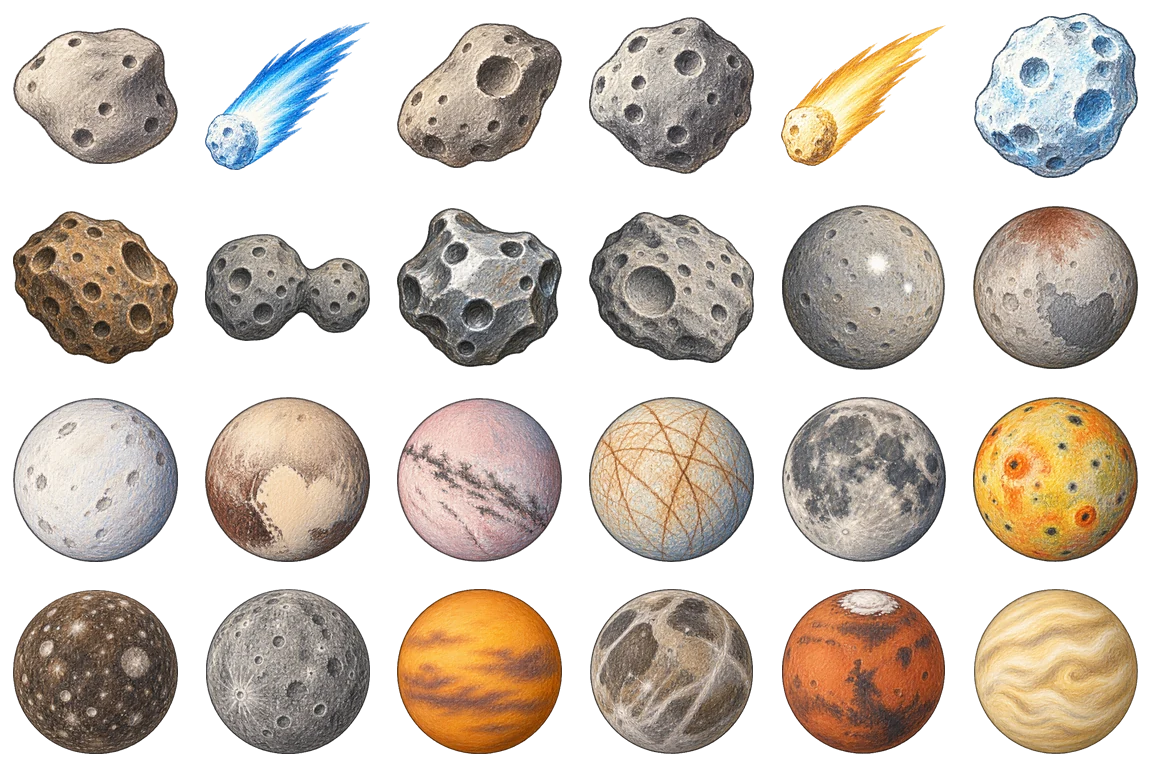
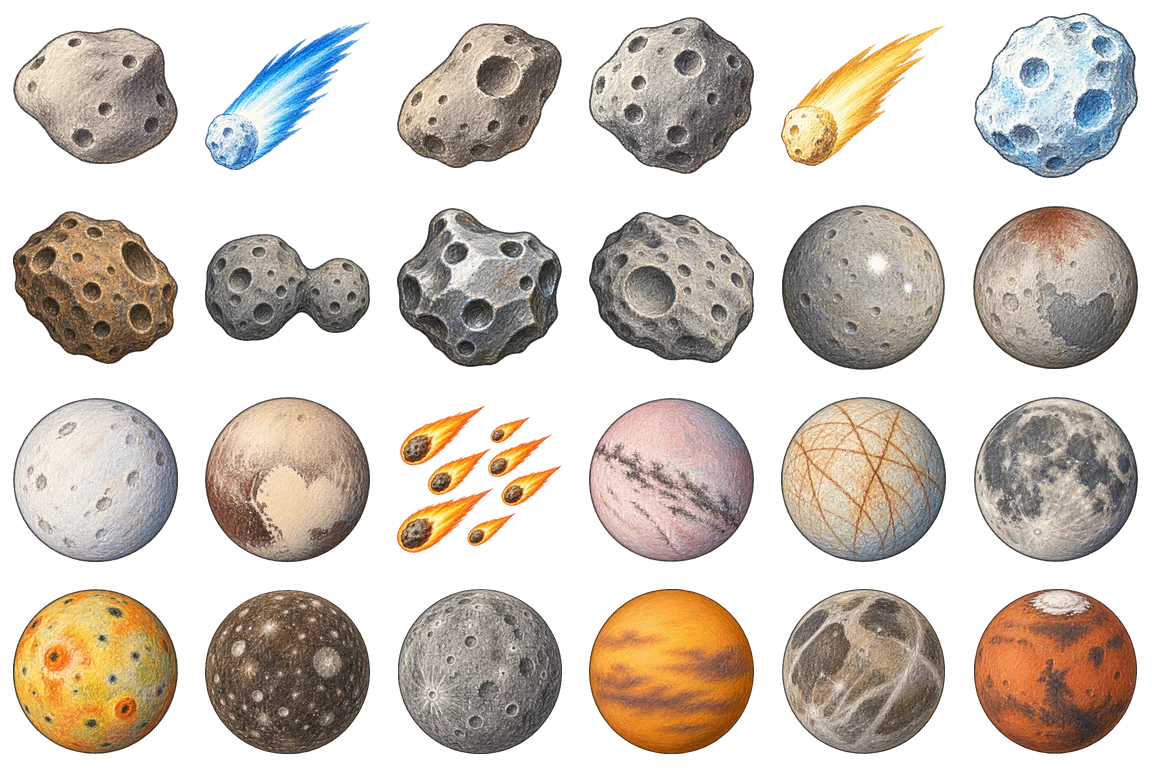
Corrige le clignotement de Glouton et remplit le système solaire de roches
Clignotement : les textures du sol (512 px) et les images des objets
étaient réduites 10 à 30 fois d'un coup. Chaque pixel de l'écran ne
lisait qu'un point de l'image, et ce point changeait à chaque image
pendant que le zoom bouge. L'atlas garde maintenant chaque image avec
ses moitiés successives et le dessin prend la version la plus proche
de la taille à l'écran ; le sol se fond doucement dans sa couleur
moyenne quand il devient trop fin.

Système solaire : plus d'étoile dès la sortie de la Terre. Six roches
prennent le relais des astéroïdes (essaim de météores, planétésimal,
roche interstellaire, planète vagabonde, nuage de débris, essaim de
comètes), avec leur planche et leurs noms EN/FR. Les outils de planches
savent désormais quels objets contient une image générée après coup.

Maison : miettes un peu moins espacées, pour que la Fringale en sorte.

Changed region(s): [[0.0, 0.5, 1.0, 1.0]]

diff --git a/app/src/main/java/com/Atom2Universe/app/games/glutton/GluttonAtlas.kt b/app/src/main/java/com/Atom2Universe/app/games/glutton/GluttonAtlas.kt
@@ -10,16 +10,20 @@ import android.graphics.RectF
 import com.Atom2Universe.app.games.glutton.GluttonCatalog.Theme
 import com.Atom2Universe.app.games.glutton.GluttonWorld.Ground
 import java.io.IOException
+import kotlin.math.abs
 import java.util.concurrent.Executors
 
 /**
  * Optional WebP pages (assets/glutton/<theme>_<page>.webp, 6 × 4 square cells, see tools/glutton) and ground
  * textures (assets/glutton/ground_<name>.webp), decoded off the frame thread. The current era's pages and
  * those of the eras on either side stay decoded; a missing page simply leaves the code-drawn stand-ins.
+ *
+ * Every image is kept with its halvings (512, 256, … pixels), and drawing picks the one closest above the size on
+ * screen: shrunk twenty times in one go, a texture shimmers from frame to frame as the camera zooms out.
  */
 internal class GluttonAtlas(private val context: Context) {
-    @Volatile private var pages: Array<Array<Bitmap?>> = Array(Theme.entries.size) { arrayOfNulls(GluttonCatalog.pageCount(Theme.entries[it])) }
-    @Volatile private var grounds: Array<Bitmap?> = arrayOfNulls(Ground.entries.size)
+    @Volatile private var pages: Array<Array<List<Bitmap>?>> = Array(Theme.entries.size) { arrayOfNulls(GluttonCatalog.pageCount(Theme.entries[it])) }
+    @Volatile private var grounds: Array<List<Bitmap>?> = arrayOfNulls(Ground.entries.size)
     private val source = Rect()
     private val executor = Executors.newSingleThreadExecutor { Thread(it, "glutton-atlas").apply { isDaemon = true } }
     private var wanted: Theme? = null
@@ -31,8 +35,8 @@ internal class GluttonAtlas(private val context: Context) {
         if (!groundsAsked) {
             groundsAsked = true
             executor.execute {
-                val loaded = arrayOfNulls<Bitmap>(Ground.entries.size)
-                for (g in Ground.entries) loaded[g.ordinal] = decode("glutton/ground_${g.name.lowercase()}.webp", Bitmap.Config.RGB_565)
+                val loaded = arrayOfNulls<List<Bitmap>>(Ground.entries.size)
+                for (g in Ground.entries) loaded[g.ordinal] = decode("glutton/ground_${g.name.lowercase()}.webp", Bitmap.Config.RGB_565)?.let { halvings(it, 16) }
                 if (!released) grounds = loaded
             }
         }
@@ -44,6 +48,7 @@ internal class GluttonAtlas(private val context: Context) {
             for (t in Theme.entries) for (page in next[t.ordinal].indices) {
                 if (t !in keep) next[t.ordinal][page] = null
                 else if (next[t.ordinal][page] == null) next[t.ordinal][page] = decode("glutton/${t.name.lowercase()}_$page.webp", Bitmap.Config.ARGB_8888)
+                    ?.let { halvings(it, GluttonCatalog.COLUMNS * 24) }
             }
             if (!released) pages = next
         }
@@ -52,14 +57,30 @@ internal class GluttonAtlas(private val context: Context) {
     private fun decode(path: String, config: Bitmap.Config): Bitmap? = try {
         context.assets.open(path).use {
             BitmapFactory.decodeStream(it, null, BitmapFactory.Options().apply { inScaled = false; inPreferredConfig = config })
-                ?.also { bitmap -> bitmap.setHasMipMap(true) }
         }
     } catch (_: IOException) { null }
 
-    fun ground(ground: Ground): Bitmap? = grounds[ground.ordinal]
+    /** [image] and its successive halvings, each averaged from the one before, down to [smallest] pixels wide. */
+    private fun halvings(image: Bitmap, smallest: Int): List<Bitmap> {
+        val list = arrayListOf(image)
+        while (list.last().width / 2 >= smallest) list.last().let { list += Bitmap.createScaledBitmap(it, it.width / 2, it.height / 2, true) }
+        return list
+    }
+
+    /** The smallest version still at least [width] pixels wide (the largest when even that is too small). */
+    private fun level(list: List<Bitmap>, width: Float): Int {
+        var i = 0
+        while (i + 1 < list.size && list[i + 1].width >= width) i++
+        return i
+    }
+
+    /** Ground texture versions, largest first (null while decoding). */
+    fun ground(ground: Ground): List<Bitmap>? = grounds[ground.ordinal]
+    fun groundLevel(list: List<Bitmap>, tile: Float) = level(list, tile)
 
     fun draw(canvas: Canvas, theme: Theme, page: Int, cell: Int, target: RectF, paint: Paint): Boolean {
-        val image = pages[theme.ordinal].getOrNull(page) ?: return false
+        val versions = pages[theme.ordinal].getOrNull(page) ?: return false
+        val image = versions[level(versions, abs(target.width()) * GluttonCatalog.COLUMNS)]
         val size = image.width / GluttonCatalog.COLUMNS
         val column = cell % GluttonCatalog.COLUMNS; val row = cell / GluttonCatalog.COLUMNS
         if ((row + 1) * size > image.height) return false

diff --git a/app/src/main/java/com/Atom2Universe/app/games/glutton/GluttonView.kt b/app/src/main/java/com/Atom2Universe/app/games/glutton/GluttonView.kt
@@ -43,7 +43,9 @@ class GluttonView(context: Context) : View(context) {
     private val arc = RectF()
     private val oval = RectF()
     private val matrix = Matrix()
-    private val shaders = arrayOfNulls<BitmapShader>(Ground.entries.size)
+    /** One shader per ground texture and per version of it (see [GluttonAtlas]). */
+    private val shaders = Array(Ground.entries.size) { arrayOfNulls<BitmapShader>(8) }
+    private val flat = Paint()
     private val averages = IntArray(Ground.entries.size)
     private val random = Random(71)
     private class Particle {
@@ -512,6 +514,12 @@ class GluttonView(context: Context) : View(context) {
     /** Ground with its texture: world-anchored on land (so floors shrink as you grow), drifting behind you in space. */
     private fun groundRect(c: Canvas, ring: Ring, ground: Ground, x0: Double, y0: Double, x1: Double, y1: Double, round: Boolean) {
         val paint = groundPaint(ring, ground)
+        // The texture fades into its average colour as it gets too fine to see, rather than switching all at once.
+        if (paint.shader != null && paint.alpha < 255) shape(c, x0, y0, x1, y1, round, flat)
+        shape(c, x0, y0, x1, y1, round, paint)
+    }
+
+    private fun shape(c: Canvas, x0: Double, y0: Double, x1: Double, y1: Double, round: Boolean, paint: Paint) {
         if (round) {
             val l = sx(x0); val t = sy(y0); val r = sx(x1); val b = sy(y1)
             if (r - l < 4e5f) { oval.set(l, t, r, b); c.drawOval(oval, paint); return }
@@ -520,20 +528,24 @@ class GluttonView(context: Context) : View(context) {
     }
 
     private fun groundPaint(ring: Ring, ground: Ground): Paint {
-        val bitmap = atlas.ground(ground)
+        val versions = atlas.ground(ground)
         val space = ground == Ground.SPACE
         texture.colorFilter = if (space) TINTS[ring.theme.ordinal] else null
-        if (bitmap == null) { texture.shader = null; texture.color = FALLBACK[ground.ordinal]; return texture }
-        if (averages[ground.ordinal] == 0) averages[ground.ordinal] = Bitmap.createScaledBitmap(bitmap, 1, 1, true).getPixel(0, 0) or 0xFF000000.toInt()
+        if (versions == null) { texture.shader = null; texture.color = FALLBACK[ground.ordinal]; return texture }
+        if (averages[ground.ordinal] == 0) averages[ground.ordinal] = Bitmap.createScaledBitmap(versions.last(), 1, 1, true).getPixel(0, 0) or 0xFF000000.toInt()
         val tile = if (space) 360.0 * density else tileMetres(ring) * zoom
-        if (tile < 14) { texture.shader = null; texture.color = averages[ground.ordinal]; return texture }
-        val shader = shaders[ground.ordinal] ?: BitmapShader(bitmap, Shader.TileMode.REPEAT, Shader.TileMode.MIRROR).also { shaders[ground.ordinal] = it }
+        if (tile < FADE_FROM) { texture.shader = null; texture.color = averages[ground.ordinal]; return texture }
+        flat.color = averages[ground.ordinal]; flat.colorFilter = texture.colorFilter
+        val level = atlas.groundLevel(versions, tile.toFloat())
+        val bitmap = versions[level]
+        val shader = shaders[ground.ordinal][level] ?: BitmapShader(bitmap, Shader.TileMode.REPEAT, Shader.TileMode.MIRROR).also { shaders[ground.ordinal][level] = it }
         val ox = if (space) drift else -cameraX * zoom + width / 2.0
         val oy = if (space) driftY else -cameraY * zoom + centerY
         matrix.setScale((tile / bitmap.width).toFloat(), (tile / bitmap.height).toFloat())
         matrix.postTranslate(((ox % tile + tile) % tile).toFloat(), ((oy % tile + tile) % tile).toFloat())
         shader.setLocalMatrix(matrix)
         texture.shader = shader; texture.color = Color.WHITE
+        texture.alpha = (255 * ((tile - FADE_FROM) / (FADE_TO - FADE_FROM))).toInt().coerceIn(0, 255)
         return texture
     }
 
@@ -756,6 +768,9 @@ class GluttonView(context: Context) : View(context) {
         /** The screen's short side shows this many gobbler radii: you take a thirteenth of it. */
         const val VIEW_SPAN = 26.0
         const val MAP_DOTS = 160
+        /** Ground textures fade into their average colour between these tile sizes, in pixels. */
+        const val FADE_FROM = 12.0
+        const val FADE_TO = 40.0
         /** Big Bang timeline, in seconds after the last bite: implosion, then the blast and the new sky. */
         const val BANG_AT = .75f
         const val FIREBALL = 1.1f

diff --git a/app/src/main/java/com/Atom2Universe/app/games/glutton/GluttonLayout.kt b/app/src/main/java/com/Atom2Universe/app/games/glutton/GluttonLayout.kt
@@ -75,14 +75,15 @@ internal class GluttonLayout(private val world: GluttonWorld, private val ring: 
         val (loose, fixed) = ring.placements.partition { it.prop.role in LOOSE }
         ring.placements.clear()
         for (p in fixed) { ring.placements += p; kept.add(p, p.x, p.y, p.radius) }
+        // The house is small and its crumbs are all there is to grow on: a little apart, never left out.
+        val spacing = if (ring.index == 0) HOUSE_SPACING else SPACING
         for (p in loose.sortedByDescending { it.radius }) {
-            // The house is small and its crumbs are all there is to grow on: spaced out, never left out.
             if (ring.index > 0 && chance(THIN)) continue
-            val reach = p.radius * (1 + SPACING)
+            val reach = p.radius * (1 + spacing)
             var free = true
             kept.query(p.x - reach, p.y - reach, p.x + reach, p.y + reach) { o ->
                 if (free) {
-                    val need = p.radius + o.radius + min(p.radius, o.radius) * SPACING
+                    val need = p.radius + o.radius + min(p.radius, o.radius) * spacing
                     if ((p.x - o.x).pow(2) + (p.y - o.y).pow(2) < need * need) free = false
                 }
             }
@@ -960,8 +961,9 @@ internal class GluttonLayout(private val world: GluttonWorld, private val ring: 
             val prop = GluttonCatalog.byId.getValue(id)
             repeat(10) { val s = spaceSpot(); if (put(prop, s[0], s[1], prop.radius, .5) != null) return@repeat }
         }
-        // Asteroids and stray dwarf stars of every size; the named moons and dwarf planets exist once each.
-        spaceScatter(1.25) { (it.theme == Theme.PLANETS || it.theme == Theme.STARS) && (it.shape != Shape.PLANET || it.spread > 1.0) }
+        // Asteroids, then meteors and rocks adrift of every size: no star before the stars ring. The named moons and
+        // dwarf planets exist once each.
+        spaceScatter(1.25) { it.theme == Theme.PLANETS && (it.shape != Shape.PLANET || it.spread > 1.0) }
         repeat(8) {
             val s = spaceSpot(); val a = random.nextDouble() * 2 * PI; val l = max(abs(s[0]), abs(s[1])) * .6
             val lane = Lane(doubleArrayOf(s[0] - cos(a) * l, s[1] - sin(a) * l, s[0] + cos(a) * l, s[1] + sin(a) * l), false)
@@ -1034,6 +1036,7 @@ internal class GluttonLayout(private val world: GluttonWorld, private val ring: 
         private val LOOSE = setOf(Role.FOOD, Role.CLUTTER, Role.YARD, Role.STREET, Role.BODY)
         private const val THIN = .3
         private const val SPACING = 1.5
+        private const val HOUSE_SPACING = .7
         private val FOOD_ROLES = listOf(Role.FOOD, Role.CLUTTER)
         /** Placed by hand (the Sun, the Moon) or used as a cover (your house is also a house among others). */
         private val SPECIAL = setOf("earth", "milky_way", "sun", "moon", "hourglass")

diff --git a/app/src/main/java/com/Atom2Universe/app/games/glutton/GluttonCatalog.kt b/app/src/main/java/com/Atom2Universe/app/games/glutton/GluttonCatalog.kt
@@ -383,6 +383,8 @@ object GluttonCatalog {
             p("charon", 1212e3, PLANET, BODY)
             p("eris", 2326e3, PLANET, BODY)
             p("pluto", 2377e3, PLANET, BODY)
+            // Rocks adrift (meteors, planetesimals, rogue worlds): what there is to eat past the asteroids, before any star.
+            p("meteor_swarm", 2.5e6, BLOB, BODY, spread = 2.5)
             p("triton", 2707e3, PLANET, BODY)
             p("europa", 3122e3, PLANET, BODY)
             p("moon", 3474e3, PLANET, BODY, ORBIT, 1.0)
@@ -392,12 +394,17 @@ object GluttonCatalog {
             p("titan", 5150e3, PLANET, BODY)
             p("ganymede", 5268e3, PLANET, BODY)
             p("mars", 6779e3, PLANET, BODY, ORBIT, 1.0)
+            p("planetesimal", 8e6, BLOB, BODY, spread = 2.5)
             p("venus", 12104e3, PLANET, BODY, ORBIT, 1.0)
             p("earth", 12742e3, PLANET, BODY)
+            p("interstellar_rock", 2e7, BLOB, BODY, spread = 2.5)
             p("neptune", 49244e3, PLANET, BODY, ORBIT, 1.0)
             p("uranus", 50724e3, PLANET, BODY, ORBIT, 1.0)
+            p("rogue_planet", 6e7, PLANET, BODY, spread = 2.0)
             p("jupiter", 139820e3, PLANET, BODY, ORBIT, 1.0)
+            p("debris_cloud", 1.5e8, CLUSTER, BODY, spread = 2.0)
             p("saturn", 200e6, PLANET, BODY, ORBIT, 1.0)
+            p("comet_swarm", 3e8, CLUSTER, BODY, spread = 2.0)
             p("sun", 1392e6, STAR, LANDMARK)
         }
         theme(Theme.STARS) {

diff --git a/tools/glutton/prompts.py b/tools/glutton/prompts.py
@@ -362,6 +362,12 @@ DESCRIPTIONS = {
     "jupiter": "the planet Jupiter, cream and orange bands with the great red spot",
     "saturn": "the planet Saturn, golden with wide tilted rings",
     "sun": "the Sun, a blazing orange and yellow ball with flares and spots",
+    "meteor_swarm": "swarm of small glowing meteors flying together in one direction, little rocks with short fiery orange trails",
+    "planetesimal": "lumpy grey brown planetesimal, a big rubble pile of rocks stuck together",
+    "interstellar_rock": "long thin cigar-shaped reddish interstellar rock tumbling through space, like the visitor Oumuamua",
+    "rogue_planet": "dark rogue planet with a cold blue icy cracked surface, wandering alone without a star",
+    "debris_cloud": "loose cloud of tumbling grey and brown rock debris, many chunks of different sizes",
+    "comet_swarm": "round swarm of many small icy comets with short blue tails, like a cloud of snowballs",
     # Stars and nebulae
     "white_dwarf": "tiny bright white star with a pale blue glow",
     "brown_dwarf": "dim brown dwarf, a dark reddish brown banded ball",
@@ -472,13 +478,26 @@ def themes():
     return result
 
 
+# Images generated after their theme was laid out, holding things since slotted in among the others by size:
+# they keep their own subjects, and the rest of the theme fills the other images in catalogue order.
+ADDED = {
+    "planets_05": ["meteor_swarm", "planetesimal", "interstellar_rock", "rogue_planet", "debris_cloud", "comet_swarm"],
+}
+
+
 def images():
     """Returns {image_name: [ids]} with six ids per image."""
     result = {}
     for theme, ids in themes().items():
-        for batch in range(-(-len(ids) // PER_IMAGE)):
-            result[f"{theme}_{batch:02d}"] = ids[batch * PER_IMAGE:(batch + 1) * PER_IMAGE]
-    return result
+        added = {name: group for name, group in ADDED.items() if name.rsplit("_", 1)[0] == theme}
+        taken = {i for group in added.values() for i in group}
+        rest = [i for i in ids if i not in taken]
+        count = -(-len(rest) // PER_IMAGE) + len(added)
+        free = [f"{theme}_{batch:02d}" for batch in range(count) if f"{theme}_{batch:02d}" not in added]
+        for k, name in enumerate(free):
+            result[name] = rest[k * PER_IMAGE:(k + 1) * PER_IMAGE]
+        result.update(added)
+    return dict(sorted(result.items()))
 
 
 def prompt(name, ids):

diff --git a/tools/glutton/pack_art.py b/tools/glutton/pack_art.py
@@ -19,7 +19,7 @@ import sys
 from PIL import Image, ImageFilter
 
 sys.path.insert(0, str(Path(__file__).resolve().parent))
-from prompts import PER_IMAGE, themes  # noqa: E402
+from prompts import images, themes  # noqa: E402
 
 ROOT = Path(__file__).resolve().parents[2]
 DESTINATION = ROOT / "app/src/main/assets/glutton"
@@ -135,22 +135,22 @@ def main():
     ids = themes().get(args.theme) or sys.exit(f"Unknown theme {args.theme}; see GluttonCatalog.kt")
     inner = int(args.cell * .86)
     objects = {}
-    for batch in range(-(-len(ids) // PER_IMAGE)):
-        path = args.source / f"{args.theme}_{batch:02d}.png"
+    # Each image holds its own subjects (see prompts.ADDED); every object goes to its slot in the catalogue.
+    for name, subjects in images().items():
+        if name.rsplit("_", 1)[0] != args.theme:
+            continue
+        path = args.source / f"{name}.png"
         if not path.exists():
             print(f"warning: {path.name} missing", file=sys.stderr)
             continue
         image = Image.open(path).convert("RGBA")
         zones = segment(image, args.threshold)
-        for slot, zone in enumerate(zones):
-            index = batch * PER_IMAGE + slot
-            if index >= len(ids):
-                break
+        for zone, subject in zip(zones, subjects):
             piece = cut(image, zone, args.threshold) if zone else None
             if piece is None:
-                print(f"warning: {path.name} zone {slot + 1} ({ids[index]}) is empty", file=sys.stderr)
+                print(f"warning: {path.name} has no {subject}", file=sys.stderr)
             else:
-                objects[index] = piece
+                objects[ids.index(subject)] = piece
     DESTINATION.mkdir(parents=True, exist_ok=True)
     for page in range(-(-len(ids) // PAGE)):
         atlas = Image.new("RGBA", (args.cell * COLUMNS, args.cell * ROWS))
